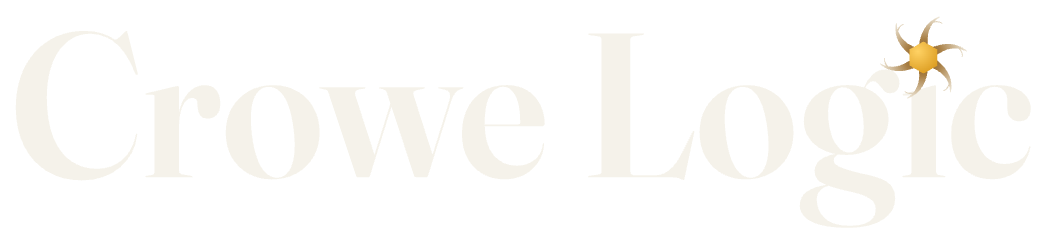
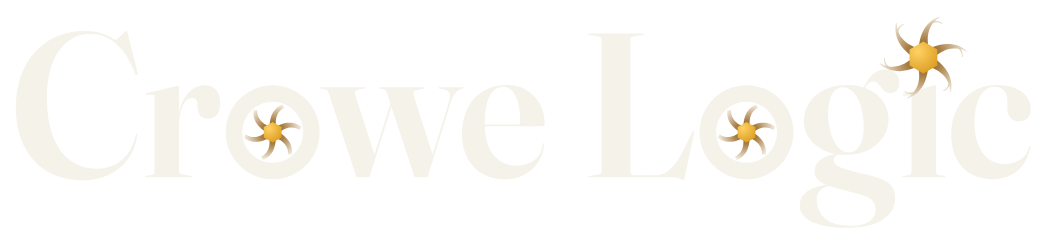
The whorls in the o's wear the spore's gold
The logotype's o-whorls were deliberately ink-only, under a rule that
gold appears exactly once per wordmark. Michael's call reverses that:
the spinners inside the o's now take the same treatment as the tittle
spore, cut for cut - the tonal ramp with the gold core on paper and
dark, currentColor hyphae with the flat gold core in the motion cut.
The rings stay letterform ink, which is what keeps three coloured marks
from reading as glitter and keeps the o an o at 8.6px. The mask cut
stays flat by definition, so the renderer's fallback layer still
recolours entirely from --ink.

Claude-Session: https://claude.ai/code/session_019Bp3RA7JUKV2GWAjsjcwbr

Changed region(s): [[0.2146, 0.4375, 0.3065, 0.6708], [0.6743, 0.4375, 0.7356, 0.6708]]

diff --git a/scripts/gen-mark.js b/scripts/gen-mark.js
@@ -381,16 +381,19 @@ emit("lockup-dark.svg", lockupSvg("#f5f2ea", { scale: SCALE.dark, id: "ld" }));
 // drawing, so there is no separate mark to lose and no way to ship the words
 // without it.
 //
-// Why the o's are ink and only the tittle is gold: the palette runs on gold
-// appearing in exactly one place. Three gold radials inside a 96px word would
-// read as glitter. Drawn in the body ink, the whorl is a letterform — a round
-// counter built of hyphae — and the eye reads "Cr(o)we L(o)gic" before it
-// notices what the o is made of. That is the point: the mark is not applied to
-// the name, it is the name's own construction.
+// The whorls in the o's wear the mark's own palette — the same treatment as
+// the tittle spore of whichever cut they sit in (decided with Michael,
+// 2026-07-31; they were ink-only before, under a gold-appears-once rule that
+// now applies per mark, not per wordmark). The ring stays letterform ink: it
+// is the "o" the word needs at 8.6px, and it is what keeps three coloured
+// marks from reading as glitter — each sits inside its own ink frame. The
+// mask cut is the one place the whorls stay flat, because a mask is one
+// colour by definition and the renderer's fallback layer must recolour
+// entirely from --ink.
 //
 // The o's take the unforked, eased-taper cut for the same reason every small
 // slot does: at header size an "o" is 8.6px across and the primary's 0.8-wide
-// tips disappear, leaving a gold-less scratch ball where a letter should be.
+// tips disappear, leaving a scratch ball where a letter should be.
 const SPORE = 46;   // ink width of the spore, in wordmark em units
 
 // The o is drawn, not borrowed. Fraunces' own "o" at this cut is 45.72 wide
@@ -409,19 +412,23 @@ const O_OUTER = 45.72;   // matches the glyph it stands in for
 // under the animation.
 const O_STROKE = 8.0;
 const O_MARK = (O_OUTER - 2 * O_STROKE) * 0.99;
-const oCut = (ink, id) => ({ pal: { blue: ink, gold: ink }, taper: 0.45, fork: false, id });
+// `mark` carries the cut's spore treatment ({scale} or {pal}); absent, the
+// whorl is flat ink — the mask cut's case. The id is always the whorl's own,
+// never the spore's: two marks sharing gradient ids silently paint the second
+// with the first one's stops.
+const oCut = (ink, id, mark) => ({ ...(mark || { pal: { blue: ink, gold: ink } }), taper: 0.45, fork: false, id });
 const ring = (cx, cy, r) =>
   `M${(cx - r).toFixed(2)} ${cy.toFixed(2)}a${r.toFixed(2)} ${r.toFixed(2)} 0 1 0 ${(2 * r).toFixed(2)} 0` +
   `a${r.toFixed(2)} ${r.toFixed(2)} 0 1 0 ${(-2 * r).toFixed(2)} 0`;
 // Ring and blades come back separately: the static cuts glue them together, and
 // the motion cut needs them in two groups so the blades can spin inside a ring
 // that holds still. One source for both, so they cannot drift apart.
-const oParts = (ink, g, id) => ({
+const oParts = (ink, g, id, mark) => ({
   ring: `<path fill="${ink}" fill-rule="evenodd" d="${ring(g.cx, g.cy, O_OUTER / 2)}${ring(g.cx, g.cy, O_OUTER / 2 - O_STROKE)}"/>`,
-  blades: placeMark(g.cx, g.cy, O_MARK, oCut(ink, id)),
+  blades: placeMark(g.cx, g.cy, O_MARK, oCut(ink, id, mark)),
 });
-const oGlyph = (ink, g, id) => {
-  const p = oParts(ink, g, id);
+const oGlyph = (ink, g, id, mark) => {
+  const p = oParts(ink, g, id, mark);
   return `${p.ring}\n  ${p.blades}`;
 };
 
@@ -430,8 +437,11 @@ function wordmarkSvg(ink, markOpts, opts) {
   const t = WM.tittle;
   const top = Math.min(t.cy - SPORE / 2, -WM.capHeight) - 5;
   const bottom = -WM.descent + 5;
+  // The whorls take the spore's own treatment, cut for cut; a cut with no
+  // spore treatment (the mask) leaves them ink.
+  const oMark = markOpts && markOpts.scale ? { scale: markOpts.scale } : null;
   const os = WM.glyphs.filter((g) => g.ch === "o")
-    .map((g, i) => oGlyph(ink, g, `${id}o${i}`))
+    .map((g, i) => oGlyph(ink, g, `${id}o${i}`, oMark))
     .join("\n  ");
   return `<svg xmlns="http://www.w3.org/2000/svg" viewBox="${-5} ${top.toFixed(2)} ${(WM.width + 10).toFixed(2)} ${(bottom - top).toFixed(2)}">
   <path d="${WM.dNoOs}" fill="${ink}"/>
@@ -456,10 +466,10 @@ emit("wordmark-ink.svg", wordmarkSvg("#000", null, { spore: false, id: "wi" }));
 // and is inlined here verbatim — the timing was authored by hand and the
 // generator's job is only to keep the geometry under it current.
 //
-// Ink is `currentColor` and the spore is flat gold, so one file serves both
-// themes from whatever --ink the host sets. That is also the mark's canonical
-// form: mono, with gold in exactly one place. The gradient cuts above are for
-// paper and for the hero, where there is room for a tonal ramp to read.
+// Ink is `currentColor` and every mark's core is flat gold — the spore and
+// both whorls take the same palette, so one file serves both themes from
+// whatever --ink the host sets. The gradient cuts above are for paper and for
+// the hero, where there is room for a tonal ramp to read.
 //
 // The viewBox carries 25 units of padding the static cuts do not need, because
 // the blades scale up from 0.45 and the spore overshoots to 1.08 on the way in;
@@ -477,7 +487,7 @@ function wordmarkMotionSvg() {
      around. Classes make a copy self-contained, so no scoping is needed and
      nothing renumbers when an indicator is removed. */
   const rotor = (name, g) => {
-    const p = oParts("currentColor", g, `mo-${name}`);
+    const p = oParts("currentColor", g, `mo-${name}`, { pal: { blue: "currentColor", gold: C.gold } });
     return `<g id="rotor-${name}" class="wm-rotor wm-rotor-${name}" aria-label="${name[0].toUpperCase() + name.slice(1)} turbine">
   ${p.ring.replace("<path ", `<path id="rotor-${name}-ring" class="wm-ring" `)}
   <g id="rotor-${name}-blades" class="wm-blades wm-blades-${name}" aria-label="${name[0].toUpperCase() + name.slice(1)} turbine blades">${p.blades}</g>
@@ -485,7 +495,7 @@ function wordmarkMotionSvg() {
   };
   return `<svg id="crowe-logic-motion" class="is-animated" xmlns="http://www.w3.org/2000/svg" viewBox="-25 -100 548.30 150" shape-rendering="geometricPrecision" role="img" aria-labelledby="crowe-logic-motion-title crowe-logic-motion-description">
   <title id="crowe-logic-motion-title">Crowe Logic</title>
-  <desc id="crowe-logic-motion-description">The Crowe Logic logotype. The o of each word is a ring of hyphae; the tittle of the i is the gold spore.</desc>
+  <desc id="crowe-logic-motion-description">The Crowe Logic logotype. The o of each word is a ring of hyphae around a gold spore; the tittle of the i is the gold spore.</desc>
   <style>
 ${css.replace(/^/gm, "  ").trimEnd()}
   </style>
